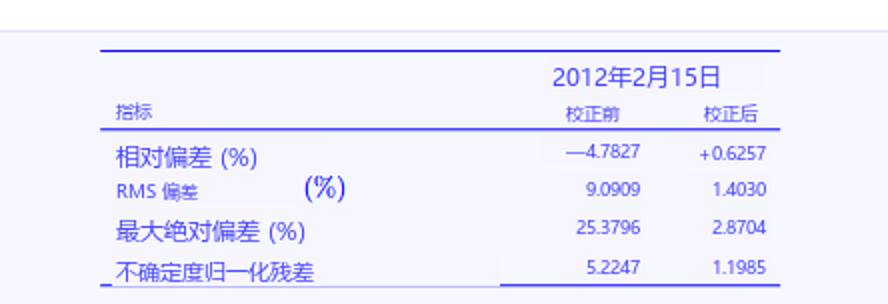
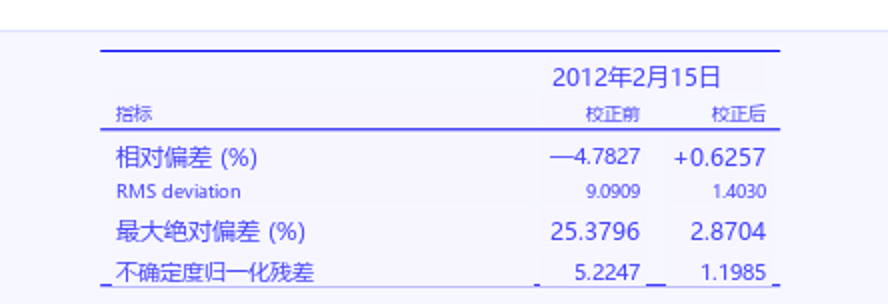
0.6.1: word-level column geometry for table mode

diff --git a/lib/index.js b/lib/index.js
@@ -881,38 +881,118 @@ export function apply(ctx, config = {}) {
     }
   }
 
-  function detectTable(lines) {
-    const items = (lines || [])
-      .filter((line) => line && typeof line === 'object' && String(line.text || '').trim())
-      .map((line) => ({
-        ...line,
-        x: Number(line.x) || 0,
-        y: Number(line.y) || 0,
-        w: Number(line.w) || 0,
-        h: Number(line.h) || 0,
+  function medianValue(values) {
+    if (!values.length) return 0
+    const sorted = values.slice().sort((a, b) => a - b)
+    return sorted[Math.floor(sorted.length / 2)]
+  }
+
+  function detectTable(words) {
+    const items = (words || [])
+      .filter((word) => word && typeof word === 'object' && String(word.text || '').trim())
+      .map((word) => ({
+        ...word,
+        x: Number(word.x) || 0,
+        y: Number(word.y) || 0,
+        w: Number(word.w) || 0,
+        h: Number(word.h) || 0,
       }))
-    if (items.length < 4) return null
-    const heights = items.map((line) => line.h).sort((a, b) => a - b)
-    const medianH = heights[Math.floor(heights.length / 2)] || 12
+      .map((word) => ({ ...word, right: word.x + word.w }))
+    if (items.length < 6) return null
+    const isNumeric = (word) => !/[A-Za-z\u4e00-\u9fff]/.test(String(word.text))
     const rows = []
-    for (const line of items.sort((a, b) => a.y - b.y)) {
+    for (const word of items.slice().sort((a, b) => a.y - b.y)) {
       const row = rows[rows.length - 1]
-      if (row && Math.abs(line.y - row.y) <= Math.max(4, medianH * 0.6)) {
-        row.items.push(line)
-        row.y = Math.min(row.y, line.y)
+      if (row && Math.abs(word.y - row.y) <= Math.max(4, word.h * 0.6)) {
+        row.words.push(word)
+        row.y = Math.min(row.y, word.y)
       } else {
-        rows.push({ y: line.y, items: [line] })
+        rows.push({ y: word.y, words: [word] })
       }
     }
-    // 同一 y 上有多条 OCR 行（标签/数值分列），且不止一行，才当作表格。
-    const multi = rows.filter((row) => row.items.length >= 2)
-    if (multi.length < 2) return null
+    // 按右边缘聚类：数字列（以及和数字右对齐的表头）会形成稳定簇。
+    const ordered = items.slice().sort((a, b) => a.right - b.right)
+    const clusters = []
+    for (const word of ordered) {
+      const cluster = clusters[clusters.length - 1]
+      if (cluster && word.right - cluster.last <= 12) {
+        cluster.words.push(word)
+        cluster.last = word.right
+        cluster.values.push(word.right)
+      } else {
+        clusters.push({ last: word.right, words: [word], values: [word.right] })
+      }
+    }
+    const columns = []
+    for (const cluster of clusters) {
+      const numericWords = cluster.words.filter(isNumeric)
+      const hasHeader = cluster.words.some((word) => /^(before|after)$/i.test(String(word.text).trim()))
+      if (numericWords.length >= 2 || hasHeader) {
+        columns.push({
+          right: medianValue(cluster.values),
+          left: Math.min(...cluster.words.map((word) => word.x)),
+        })
+      }
+    }
+    columns.sort((a, b) => a.left - b.left)
+    if (columns.length < 2) return null
+    const columnAt = (word) => {
+      let best = -1
+      let bestDistance = 13
+      columns.forEach((column, index) => {
+        const distance = Math.abs(word.right - column.right)
+        if (distance < bestDistance) {
+          best = index
+          bestDistance = distance
+        }
+      })
+      return best
+    }
+    const numericRows = rows.filter((row) => row.words.some((word) => isNumeric(word) && columnAt(word) >= 0))
+    if (numericRows.length < 2) return null
+    const headerRow = rows.find((row) =>
+      row.words.some((word) => /^before$/i.test(String(word.text).trim()))
+      && row.words.some((word) => /^after$/i.test(String(word.text).trim())))
+    const titleRows = headerRow ? rows.filter((row) => row.y < headerRow.y - 2) : []
+    const labelWords = items.filter((word) => columnAt(word) < 0)
+    if (!labelWords.length) return null
+    const labelLeft = Math.min(...labelWords.map((word) => word.x))
+    const labelRight = Math.max(labelLeft + 20, columns[0].left - 8)
     const cells = []
+    for (const row of titleRows) {
+      const x0 = Math.min(...row.words.map((word) => word.x))
+      const y0 = Math.min(...row.words.map((word) => word.y))
+      const x1 = Math.max(...row.words.map((word) => word.x + word.w))
+      const y1 = Math.max(...row.words.map((word) => word.y + word.h))
+      cells.push({
+        x: x0, y: y0, w: x1 - x0, h: y1 - y0,
+        text: row.words.slice().sort((a, b) => a.x - b.x)
+          .map((word) => String(word.text).trim()).join(' '),
+        numeric: false,
+      })
+    }
     for (const row of rows) {
-      for (const line of row.items) {
-        const text = String(line.text).trim()
-        const numeric = !/[A-Za-z\u4e00-\u9fff]/.test(text)
-        cells.push({ x: line.x, y: line.y, w: line.w, h: line.h, text, numeric })
+      if (titleRows.includes(row)) continue
+      const rowY = Math.min(...row.words.map((word) => word.y))
+      const rowH = Math.max(...row.words.map((word) => word.y + word.h)) - rowY
+      const label = row.words.filter((word) => columnAt(word) < 0)
+        .sort((a, b) => a.x - b.x)
+      if (label.length) {
+        cells.push({
+          x: labelLeft, y: rowY, w: labelRight - labelLeft, h: rowH,
+          text: label.map((word) => String(word.text).trim()).join(' '),
+          numeric: false,
+        })
+      }
+      for (const column of columns) {
+        const words = row.words.filter((word) => Math.abs(word.right - column.right) < 13)
+          .sort((a, b) => a.x - b.x)
+        if (!words.length) continue
+        const text = words.map((word) => String(word.text).trim()).join(' ')
+        cells.push({
+          x: column.left, y: rowY, w: column.right - column.left, h: rowH,
+          text, numeric: isNumeric(words[0]), align: 'right',
+        })
       }
     }
     return cells
@@ -970,7 +1050,7 @@ export function apply(ctx, config = {}) {
       const ocrText = tidyOcr(analysis.text)
 
       // 表格模式：用 word 级框把多列表格拆成单元格，只翻译文字格，数字原样保留。
-      const tableCells = detectTable(analysis.lines)
+      const tableCells = detectTable(analysis.words)
       if (tableCells && tableCells.length >= 4) {
         const cellTranslations = await aiTranslateCells(tableCells, targetLanguage).catch((error) => {
           log('table translate failed', error?.message || String(error))
@@ -1106,7 +1186,7 @@ export function apply(ctx, config = {}) {
             pin: existsSync(join(LIB, 'pinwin.py')),
             target: targetLanguage,
             python: findPython(),
-            version: '0.6.0',
+            version: '0.6.1',
             hotkey: helper.hotkeyActive(),
           })
         }
@@ -1227,6 +1307,7 @@ export function apply(ctx, config = {}) {
     }, 1500)
   }
 }
+
 
 
 

diff --git a/lib/client.js b/lib/client.js
@@ -517,7 +517,7 @@ window.__ModuleLoader__.load({
 			window.__DTP_ACTIVE__ = api;
 			ctx.effect(() => () => dispose());
 			try {
-				Promise.resolve(callApi("clientReady", { version: "0.6.0" })).catch(() => {});
+				Promise.resolve(callApi("clientReady", { version: "0.6.1" })).catch(() => {});
 				Promise.resolve(callApi("capabilities"))
 					.then((value) => {
 						if (value && typeof value.target === "string") state.targetDefault = value.target;
@@ -560,6 +560,7 @@ window.__ModuleLoader__.load({
 		return module.exports;
 	},
 });
+
 
 
 

diff --git a/lib/pinwin.py b/lib/pinwin.py
@@ -994,7 +994,8 @@ class InPlaceWindow:
                 except Exception:
                     font = ImageFont.load_default()
             text_w = painter.textlength(text, font=font)
-            tx = (x1 - text_w) if cell.get("numeric") else x0
+            right_align = bool(cell.get("numeric")) or cell.get("align") == "right"
+            tx = (x1 - text_w) if right_align else x0
             ty = y0 + max(0, (y1 - y0 - size) // 2)
             painter.text((tx, ty), text, font=font, fill=table_fg)
         return base, self.crop.copy()

diff --git a/RELEASE_NOTES.md b/RELEASE_NOTES.md
@@ -1,7 +1,5 @@
-0.6.0
+0.6.1
 
-- 新增表格模式：截图区域是表格时，按单元格逐格翻译。
-- 数字、正负号、百分号原样保留；只翻译文字单元格。
-- 每个单元格的译文画回该单元格原来的位置，表格线、列宽、行高不动。
-- OCR 增加 word 级框；表格按同一 y 上的多条 OCR 行拆列。
-- 表格文字统一取一个文字颜色，避免小字号 ClearType 彩边。
+- 表格模式改用 word 级列几何：按数字右对齐边界识别列，把同一行里的标签词和数字词拆回各自列。
+- 修复长标签把数字并进指标列、数字被模型改写、(%) 单位飘到远处的问题。
+- 标题行单独处理；表头与数字列右对齐；表格线、列宽、行高不变。

diff --git a/README.md b/README.md
@@ -115,7 +115,7 @@ dsh plugin --profile <profile> add <本目录>
 ### 表格翻译
 
 1. 框选整个表格（带表头/横线）；
-2. 插件用 OCR 行把表格拆成单元格：同一 y 上的多段文字视为不同列；
+2. 插件用 word 级框按数字右对齐边界识别列，再把同一行里的标签词和数字词拆回各列；
 3. 只翻译文字单元格，数字、正负号、百分号原样保留；
 4. 每个单元格的译文画回该单元格原来的位置，表格线、列宽、行高不动。
 
@@ -221,6 +221,7 @@ dsh-translate-pin/
 ## License
 
 MIT
+
 
 
 
